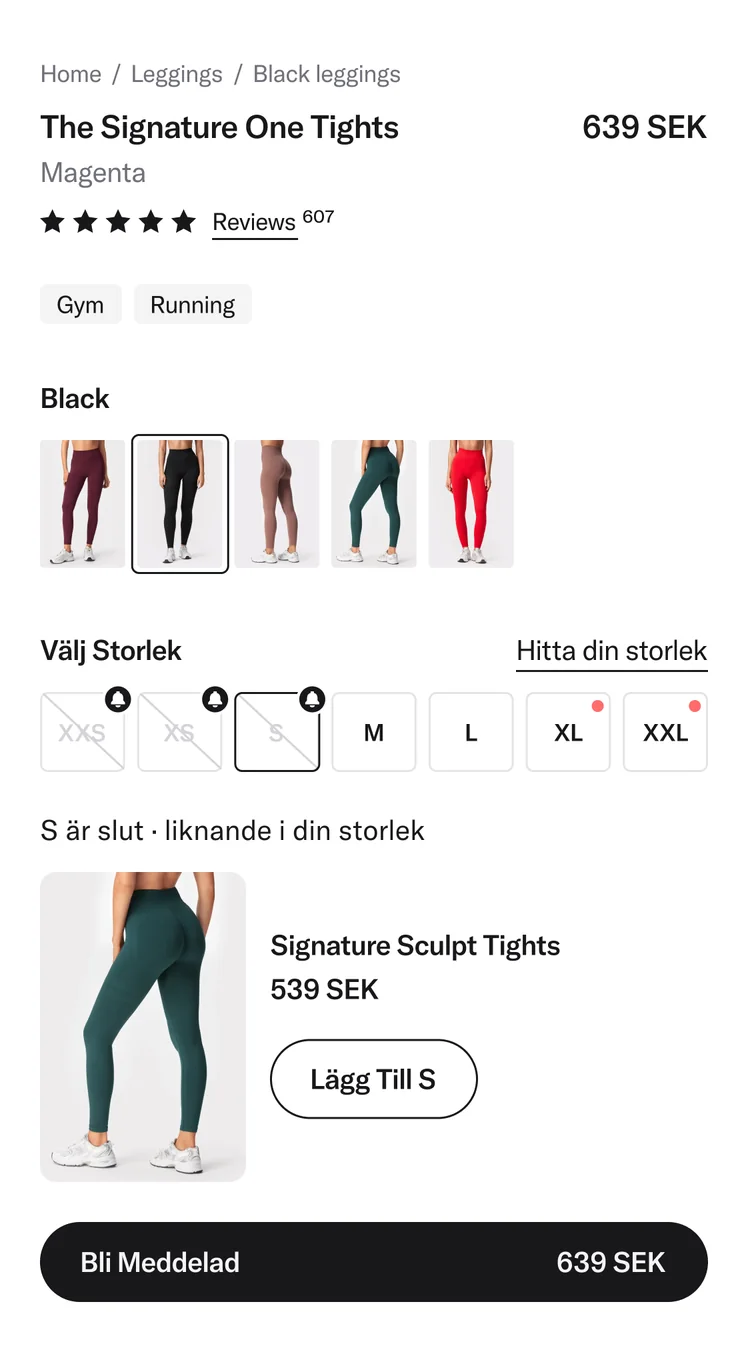
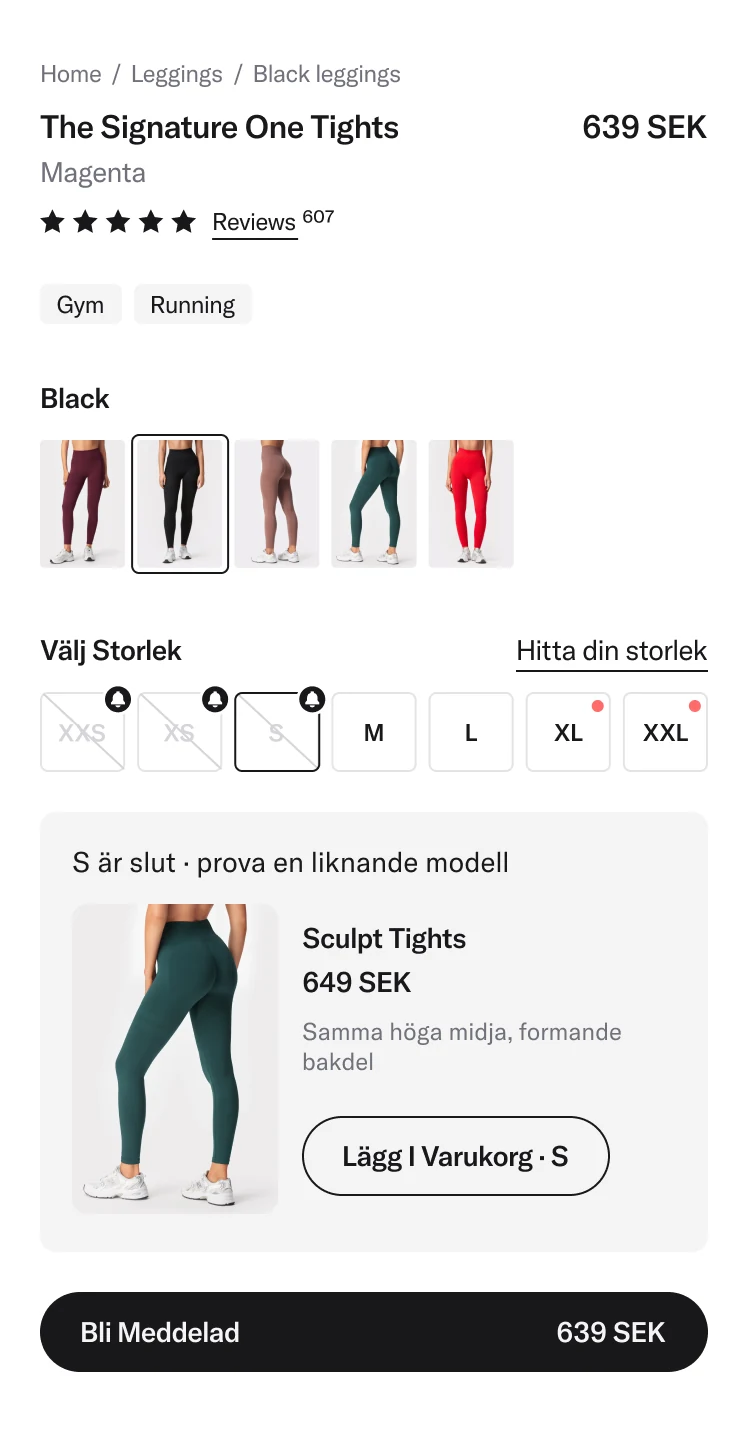
Similar-product morph: end on the grey-panel recommendation (Figma 228:597)

diff --git a/src/components/lab/morph/scenes.ts b/src/components/lab/morph/scenes.ts
@@ -67,7 +67,8 @@ const t2Design = S("t2-design", 374, 548);
 /** C2b (Ali 30 Oct): the colour row as 2.5 similar-product cards, Figma 226:232. */
 const t3Design = S("t3-design", 374, 792);
 const t4Today = S("t4-today", 374, 508);
-const t4Design = S("t4-design", 374, 683);
+/** A3c grey panel (Ali 1 Nov): "prova en liknande modell", why-line, Figma 228:597. */
+const t4Design = S("t4-design", 374, 718);
 const t5Today = S("t5-today", 390, 844);
 const t5Design = S("t5-design", 390, 844);
 const t5Picked = S("t5-picked", 390, 844);
@@ -181,7 +182,7 @@ const soldout: Scene = {
   poster: t3.poster(t3Design),
 };
 
-const t4 = pdp(683);
+const t4 = pdp(718);
 const similar: Scene = {
   key: "similar",
   label: "Similar product",
@@ -193,13 +194,13 @@ const similar: Scene = {
     t4.slice("sizesDesign", t4Design, [316, 394], 316, { hidden: true }),
     t4.slice("findSize", t4Today, [394, 422], 394),
     t4.slice("low", t4Today, [422, 508], 422),
-    t4.slice("band", t4Design, [394, 597], 394, { reveal: "down" }),
+    t4.slice("band", t4Design, [394, 632], 394, { reveal: "down" }),
   ],
   steps: [
     { kind: "hold", d: 0.6 },
     { kind: "tap", x: t4.x(138.4), y: t4.Y(358) },
     { kind: "fade", out: ["sizesToday", "findSize"], in: ["sizesDesign"], dy: t4.dy(8), d: 0.35 },
-    { kind: "move", ids: ["low"], dy: t4.dy(175), d: 0.7, at: "-=0.1" },
+    { kind: "move", ids: ["low"], dy: t4.dy(210), d: 0.7, at: "-=0.1" },
     { kind: "reveal", ids: ["band"], d: 0.7, at: "<0.1" },
     { kind: "hold", d: 0.2 },
   ],
